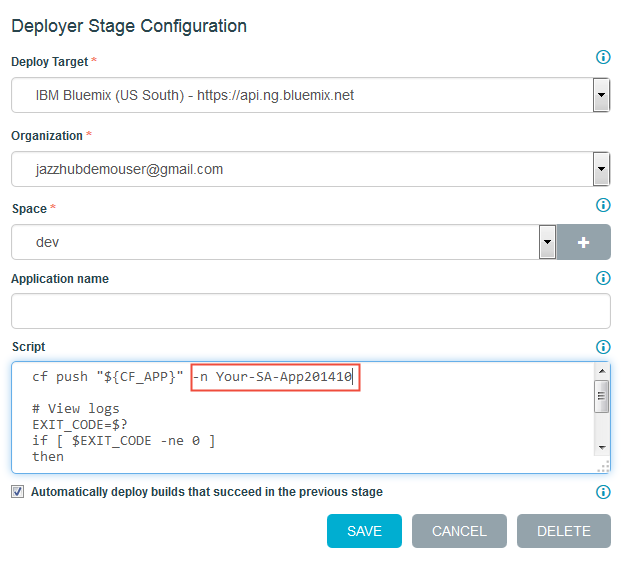
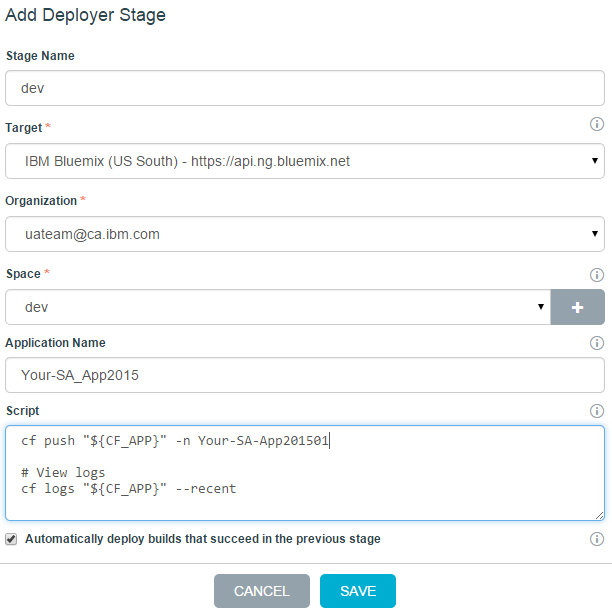
Image and text updates as part of Prachi's feedback on MT-edited JazzWeb.

Changed region(s): [[0.0, 0.0, 0.9935, 0.9982], [0.9314, 0.0907, 0.9935, 0.2117]]

diff --git a/tutorials/jazzweb/index.md b/tutorials/jazzweb/index.md
@@ -15,7 +15,7 @@ Enter whatever name you like for your fork of the Sentiment Analysis app. Also, 
 
 ![Fork new project][4]
 
-You'll make your mark on the app in a moment, but for now, let's get your fork of the project live on the web using Bluemix. To make the most of DevOps Services and Bluemix, make sure that your Bluemix space has the *Delivery Pipeline* service. If it doesn't yet have it, follow [these steps][26] to get it. 
+You'll make your mark on the app in a moment, but for now, let's get your fork of the project live on the web using Bluemix. To make the most of DevOps Services and Bluemix, make sure that your Bluemix space has the *Delivery Pipeline* service. If it doesn't yet have it, [follow these steps][26]. 
 
 Click **Build &amp; Deploy** at the top of the screen. Then, click **Simple**.
 
@@ -27,20 +27,15 @@ Simple deployment works by directly deploying the contents of the Git repository
 
 ![Sentiment Analysis Sample App][7]
 
-The sample project incorporates JSHint validation to make sure that your code is prim, proper, and error free. The simple deployer doesn't support that sort of thing, though. You need to configure a builder, which is only available in Advanced mode, also known as Pipeline. 
+The sample project incorporates JSHint validation to make sure that your code is error-free. The simple deployer doesn't support that sort of thing, though. You need to configure a builder, which is only available in Advanced mode, also known as Pipeline. 
 
-At the top of the *Build & Deploy* page, click **Advanced**. Because you've switched from Simple to Advanced mode, Pipeline will have automatically generated a configuration for your project. You're going to set this up from scratch, though, so before going further:
+At the top of the *Build & Deploy* page, click **Advanced**. 
 
-![A preconfigured Pipeline][25]
+Click **add a builder**. On the *Add Builder* page that appears, select "Grunt" as the **Builder**. Leave everything else as default. 
 
-1. Click the gear icon on the rightmost panel, which represents a stage named `dev` by default. 
-2. On the *Deployer Stage Configuration* page, click **DELETE**. Click **OK** when the confirmation message appears.
-3. Click the gear icon on the Builder panel.
-4. On the *Builder Configuration* page, click **RESET**. Click **OK** when the confirmation message appears.
- 
-And that's that. You can do as much creation and customization as you like when you configure your own project. This one, however, is designed to require minimal fuss to get things up and running: a pre-configured Grunt build file, `Gruntfile.js`, is in the root directory, so it will automatically be found.
+You can do as much creation and customization as you like when you configure your own project. This one, however, is designed to require minimal fuss to get things up and running: a pre-configured Grunt build file, `Gruntfile.js`, is in the root directory, so it will automatically be found.
 
-Click **add a builder**. On the *Add Builder* page that appears, select "Grunt" as the **Builder**. Leave everything else as default and click **SAVE**.
+Click **SAVE**.
 
 ![Configuring the Builder][8]
 
@@ -48,7 +43,7 @@ Next, click **add a stage** on the right side of the screen. DevOps Services int
 
 To make sure that the project has a unique path, add the flag `-n` followed by a unique host name to the first line of the Bluemix script. A complete version of the command might look like this:
 
-    cf push "${CF_APP}" -n Your-SA-App201410
+    cf push "${CF_APP}" -n Your-SA-App201501
 
 As an example:
 
